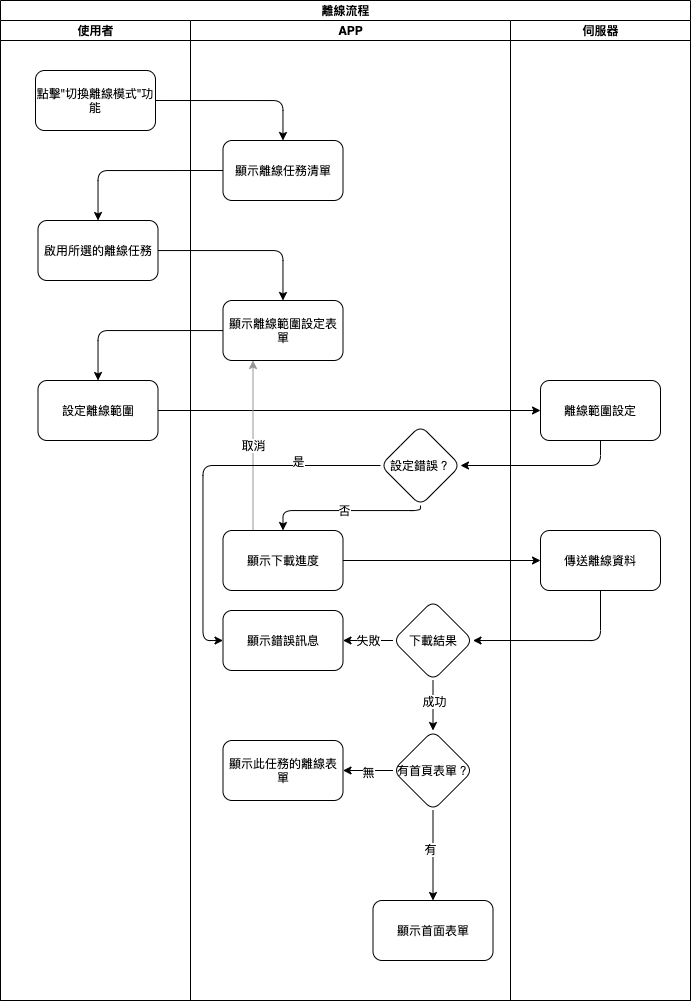
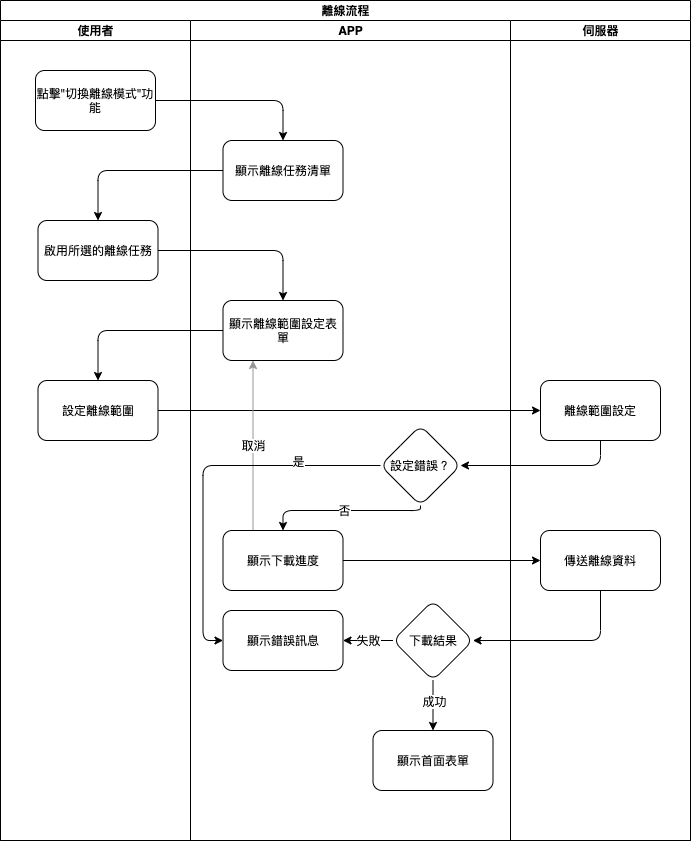
新增離線錯誤流程

diff --git a/8.10.0/UPDATE/ITEM_1/MAE/offlinemodeoffline.md b/8.10.0/UPDATE/ITEM_1/MAE/offlinemodeoffline.md
@@ -44,3 +44,7 @@
 
   ![Offline Mode Workflow Offline](./image/workflow_offline.png)
 
+  * <p id=offline_error_in_inernet>離線任務錯誤(有網路)</p>
+
+      ![Offline Mode offline error in internet](./image/workflow_offline_error.png)
+
